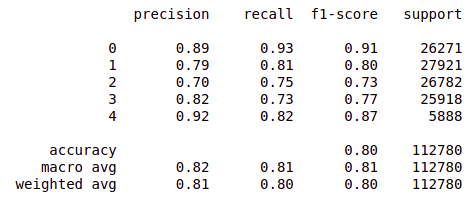
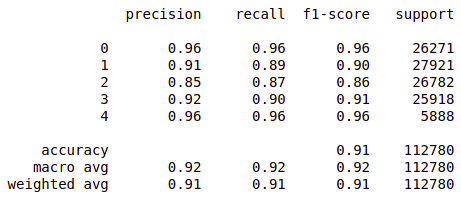
novas imagens e alteração no readme

diff --git a/README.md b/README.md
@@ -1,12 +1,52 @@
+# FUZZY to classifie hotspot
+Classification of hotspot in photovoltaic module using fuzzy logic.
+
+## Dataset
+
+![Alt text](./images/fuzzy-datas.png?raw=true "Title")
+
+This is a dataset supervised. The dataset has 600 samples of module with hotspot, where is splited in 6 classes. Each sample has 3 features: Ppl: The percentage of power less; Voc: the percentagem of voltage less; and Isc: the percentage of current less.
+
+## Model FUZZY
+![Alt text](./images/fuzzy-universe1.png?raw=true "Title")
+
+Universe of discourse of the Voc feature. The 'L' means 'LOWER', and mean a lower less of voltage at modules. Respectively, 'M' is 'Mean' and 'H' is 'HIGH'.
+
+![Alt text](./images/fuzzy-universe2.png?raw=true "Title")
+
+This image is for Isc feature.
+
+![Alt text](./images/fuzzy-universe3.png?raw=true "Title")
+
+This is the consequence of FUZZY. It means if Voc and Isc were L, so the module has a L OMF, thus it got 1 or 2 hotspots.
+
+## Results
+This FUZZY was used to classifie hotspot fault, so the result is show in the image below.
+
+![Alt text](./images/fuzzy-result1.png?raw=true "Title")
+
+![Alt text](./images/fuzzy-result2.png?raw=true "Title")
+
+Can be seen in the figures that the FUZZY was better to classifie the class 1 and 2, but for class 3 and 4 this dont happens. 
+
+**The accuracy was 79%**.
+
 # Self-Organizing-Map-SOM-with-KNN
 A SOM network build to classify one photovoltaic failure dataset 
 
-# DETAILS FOR LIBRARIES INSTALL (ubuntu)
+## DETAILS FOR LIBRARIES INSTALL (ubuntu)
 1. Create a virtual env: virtualenv -p python3 .env
 2. enter in your terminal venv: source .env/bin/activate
 3. install the libraries: pip install requirements.txt 
 
-# DATASET DETAILS 
+## The model
+Map: 100x100  
+neighboor: 3  
+learn rate: 0.5  
+weighs: random from dataset  
+epoch: 1000  
+
+## DATASET DETAILS 
 ![Alt text](./images/dataset.png?raw=true "Title")
 Irr = irradiance
 Icc = current
@@ -24,16 +64,33 @@ Data plots with the 2 first samples (Irr Icc)
 ![Alt text](./images/real.png?raw=true "Title")
 
 
-# RESULTS
-with a 40x40 nodes matrix (just 1600 instead of 500.00 samples), was obtained a F1-score higher than 80%.
+## RESULTS
+with a 100x100 nodes matrix (just 10000 instead of 500.00 samples), was obtained a F1-score higher than 91%.
 ![Alt text](./images/wdataset.png?raw=true "Title")
 
 comparation with W choised randomly, where the KNN got just 41%.
 ![Alt text](./images/wramdon.png?raw=true "Title")
 
-# graph comparative som output vs real output
+Anf for all dataset, the result was 96% acc.
+![Alt text](./images/allds.png?raw=true "Title")
+
+## graph comparative som output vs real output
 ![Alt text](./images/somVSreal.png?raw=true "Title")
 
-
 # MLP FOR SHADOW FAULT CLASSIFICATION IN PHOTOVOLTAIC MODULE 
+
+## Multi Layer Perceptron
+Number layers: 4  
+Neurons per layers: 128, 100, 100, 64  
+solver: adam  
+activation: tanh  
+epoch: 100  
+
+## Results
+### For all dataset
+![Alt text](./images/mlp-result1.png?raw=true "Title")
+
+### For SOM dataset
+![Alt text](./images/mlp-result2.png?raw=true "Title")
+
 https://colab.research.google.com/drive/1E5u5mEaI7d9idc7lDHqyg0oeVx2t0YHi#scrollTo=nRMZvdTxrT5g
